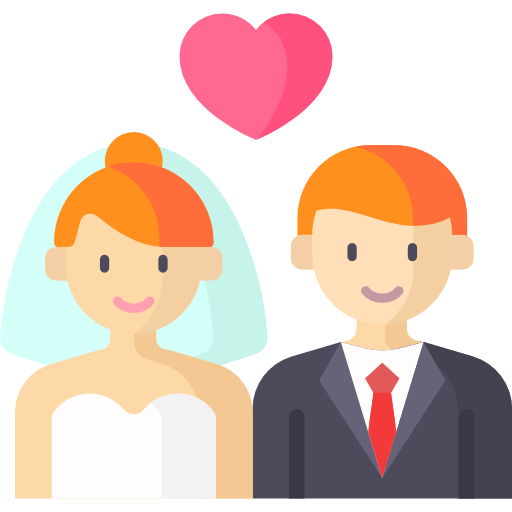
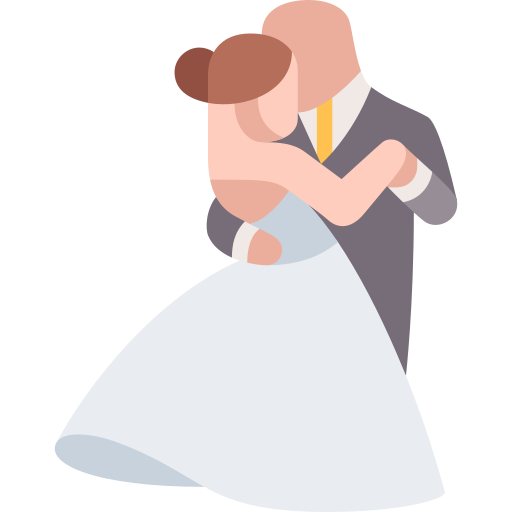
fond dégradé

diff --git a/index_wedding.html b/index_wedding.html
@@ -28,7 +28,7 @@
             <h3>Photo/Video booth</h3>
         </a>
         <a href="facetime.html" id="option" class="icon">
-            <img src="./img/video-chat.png" alt="Facetime">
+            <img src="./img/facetime.png" alt="Facetime">
             <h3>Facetime</h3>
         </a>
         <a href="karaoke.html" id="option" class="icon">

diff --git a/css/style_wedding.css b/css/style_wedding.css
@@ -6,7 +6,7 @@ body {
     margin-top: 80px;
     padding: 0;
     font-family: 'Poppins', sans-serif;
-    background: linear-gradient(135deg, #fdfbfb, #ebedee);
+    background: linear-gradient(135deg, #f78ca0 0%, #fbc2eb 100%);
     display: flex;
     align-items: center;
     justify-content: center;
